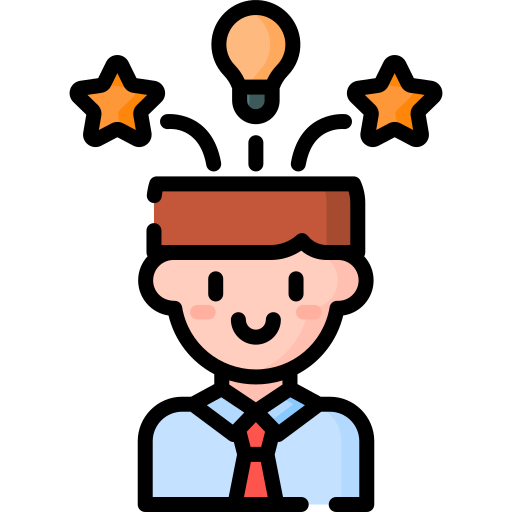
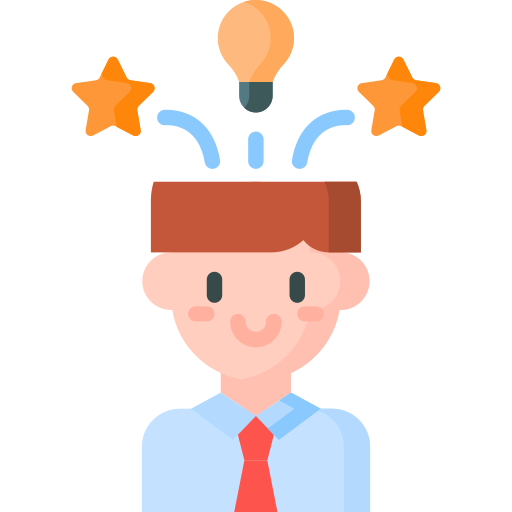
Makes 'site' subsection more grapical

Changed region(s): [[0.125, 0.0, 0.875, 1.0], [0.4375, 0.5938, 0.5625, 0.6875], [0.5625, 0.5312, 0.5938, 0.5938]]

diff --git a/index.html b/index.html
@@ -42,21 +42,25 @@
             la que me reconozca, que no sea una web m&aacute;s, que llame la atenci&oacute;n.&raquo;            
           </i></p>
           <p>
-            Si est&aacute;s en este caso, lo que necesitas es una <b>p&aacute;gina web est&aacute;tica,</b> cuyo texto est&aacute;
-            en la propia p&aacute;gina, como tambi&eacute;n lo est&aacute;n los enlaces a im&aacute;genes y a otras p&aacute;ginas de tu
-            mismo sitio web o de otros.
+            Puedo acompa&ntilde;arte&hellip;
           </p>
-          <h3>&iquest;En qu&eacute; puedo ayudarte?</h3>
-          <ul>
-            <li>Puedo <b>crear un dise&ntilde;o</b> para tu p&aacute;gina, si lo necesitas.</li>
-            <li>Puedo <b>crear tu p&aacute;gina a partir de un dise&ntilde;o</b> tuyo, si ya lo tienes.</li>
-            <li>Dependiendo de c&oacute;mo est&eacute; construida, podr&iacute;a <b>cambiar el dise&ntilde;o</b> de tu p&aacute;gina, si ya tienes una.</li>
-          </ul>
-          <h3>&iquest;En qu&eacute; necesitar&eacute; que me ayudes?</h3>
-          <ul>
-            <li>Para proporcionarme los <b>contenidos</b> que quieres mostrar en tu web.</li>
-            <li>Para <b>validar peri&oacute;dicamente el dise&ntilde;o</b> y la usabilidad de tu p&aacute;gina.</li>
-          </ul>
+          <div class="frames-container">
+            <div class="frame idea">
+              &hellip; desde la idea original,&hellip;
+            </div>
+            <div class="frame arrow-right"></div>
+            <div class="frame design">
+              &hellip; o a partir de tu dise&ntilde;o, &hellip;
+            </div>
+            <div class="frame arrow-right"></div>
+            <div class="frame coding">
+              &hellip; o desde tu web actual&hellip; 
+            </div>
+            <div class="frame arrow-right"></div>
+            <div class="frame browser">
+              &hellip; hasta tu nueva web.
+            </div>
+          </div>
         </div>
       </div>
       <div class="modal" id="blog">

diff --git a/styles/frames.css b/styles/frames.css
@@ -1,0 +1,45 @@
+.frames-container {
+  display: flex;
+  justify-content: space-evenly;
+  width: 100%;
+  height: 25%;
+  padding: 2%;
+}
+
+.frames-container .frame {
+  width: 20%;
+  height: 100%;
+  display: flex;
+  align-items: flex-end;
+  justify-content: center;
+  font-size: 0.6em;
+  padding: 0;
+  border-radius: 1em;
+}
+
+.frames-container .frame.arrow-right {
+  width: 5%;
+  height: 100%;
+  background: url(../images/arrow-right.png) no-repeat center center;
+  background-size: 90%;
+}
+
+.frames-container .frame.idea {
+  background: url(../images/idea.png) no-repeat center center;
+  background-size: 50%;
+}
+
+.frames-container .frame.design {
+  background: url(../images/design.png) no-repeat center center;
+  background-size: 50%;
+}
+
+.frames-container .frame.coding {
+  background: url(../images/coding.png) no-repeat center center;
+  background-size: 50%;
+}
+
+.frames-container .frame.browser {
+  background: url(../images/browser.png) no-repeat center center;
+  background-size: 50%;
+}

diff --git a/styles/themes.css b/styles/themes.css
@@ -194,3 +194,17 @@ body.light {
   background: url(../images/learn-dark.png) no-repeat center center;
   background-size: cover;
 }
+
+.frames-container .frame:not(.arrow-right) {
+  background-color: var(--lightbackground) !important;
+  color: var(--darkbackground);
+}
+
+.light .frames-container .frame:not(.arrow-right) {
+  background-color: var(--darkbackground) !important;
+  color: var(--lightbackground);
+}
+
+.light .frames-container .frame.arrow-right {
+  filter: var(--dim);
+}

diff --git a/styles.css b/styles.css
@@ -2,6 +2,7 @@
 @import url(styles/themes.css);
 @import url(styles/fonts.css);
 @import url(styles/utils.css);
+@import url(styles/frames.css);
 @import url(styles/modal.css);
 @import url(styles/what.css);
 
